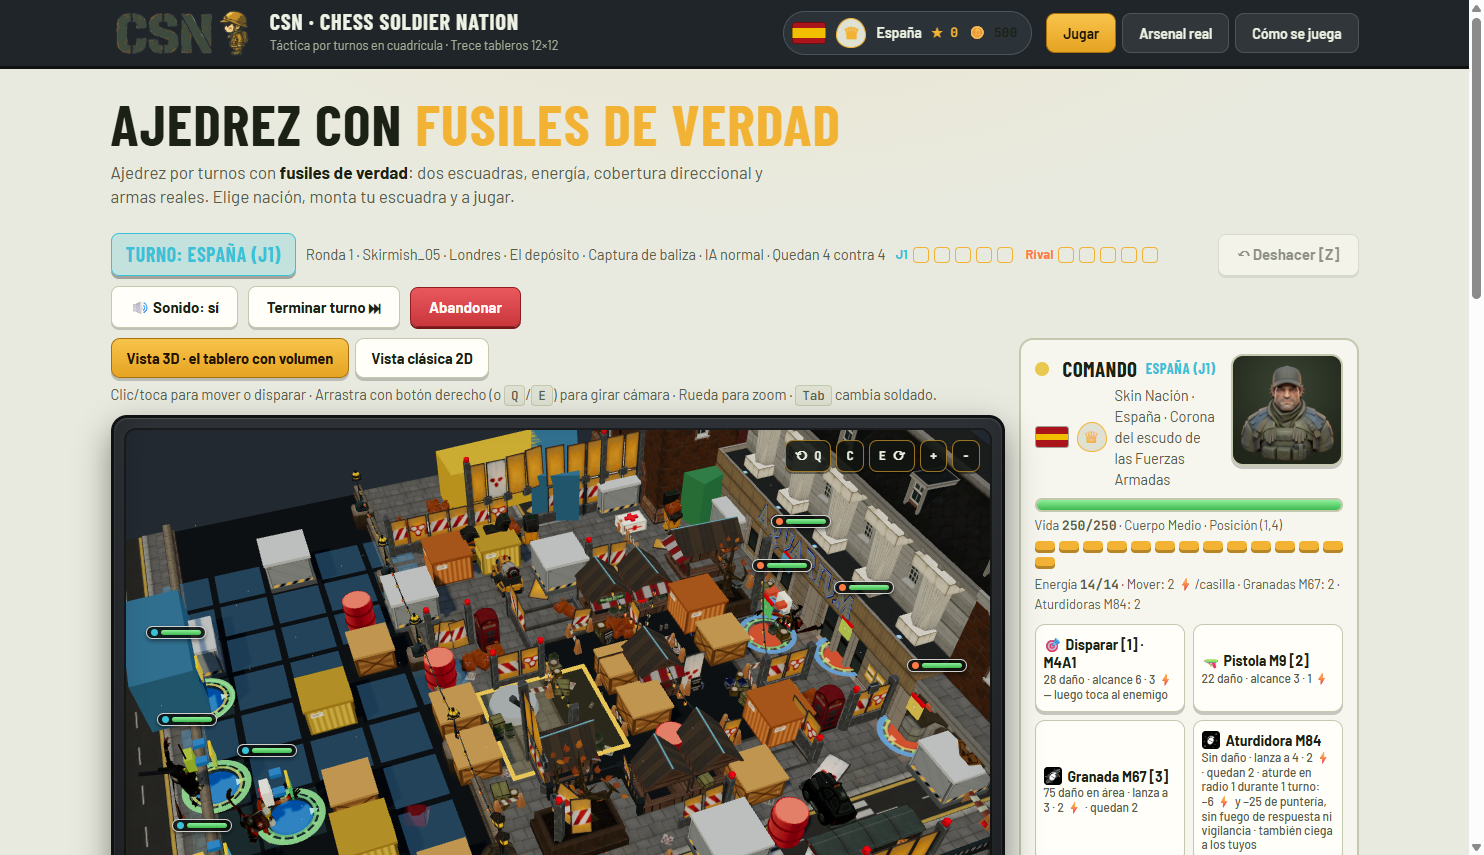
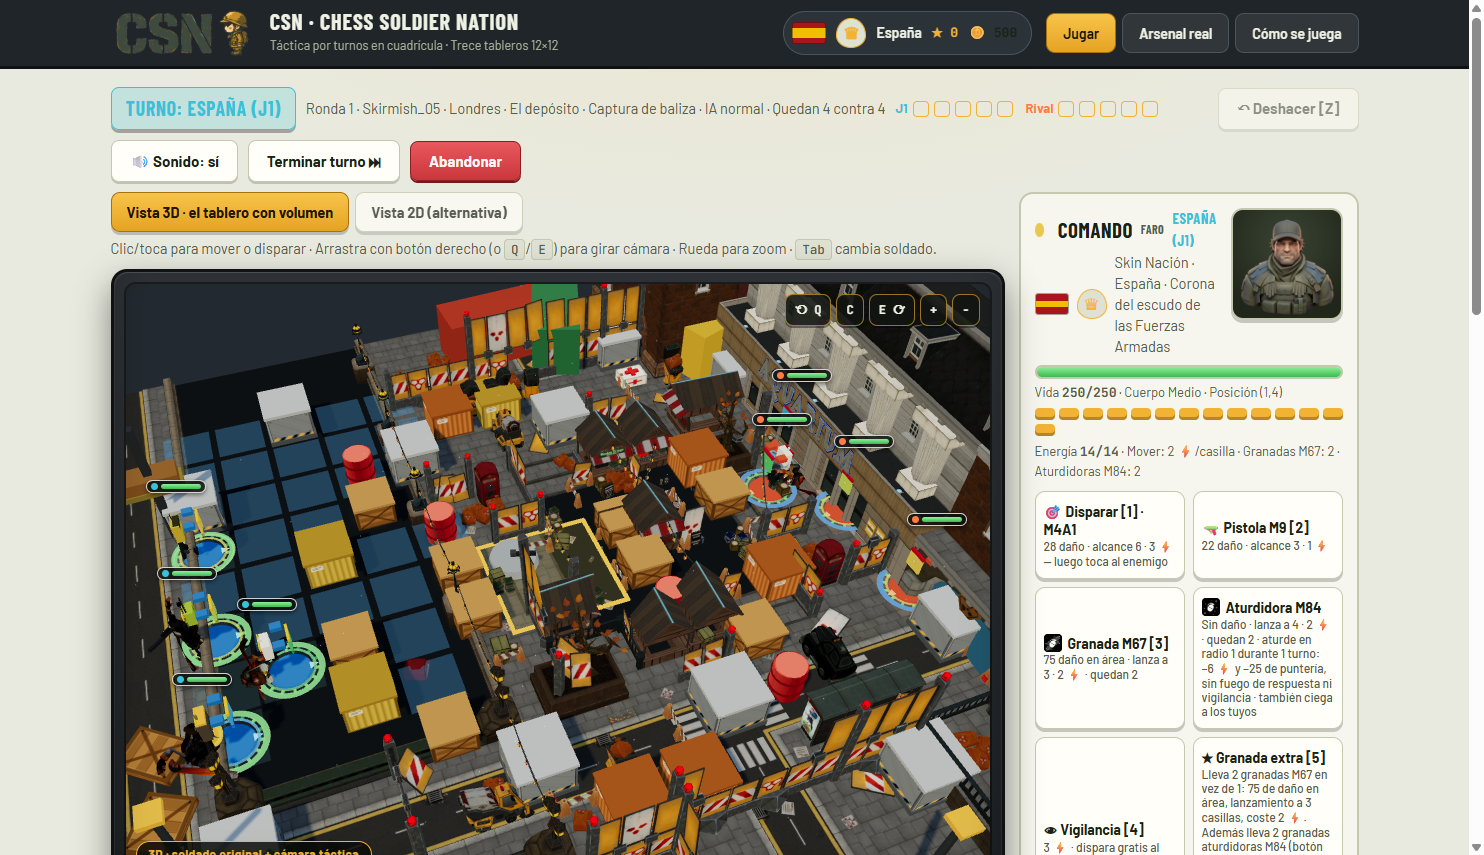
Informe de cierre del objetivo y galeria 3D refrescada
- docs/Informe_cierre_objetivo.md: que se ha hecho por fase, numeros del
  repositorio, que queda (decisiones y arte propio) y como seguir.
- Capturas 3D actualizadas con los props nuevos (S03 79.040 tris,
  deposito 65.069, astillero 73.551, almacen 33.290).
- Retirado un splash sin uso (portada_original.png).
Verificacion: TODO OK.

diff --git a/docs/Informe_cierre_objetivo.md b/docs/Informe_cierre_objetivo.md
@@ -1,0 +1,89 @@
+# Informe de cierre del objetivo (rondas 1–43)
+
+Objetivo: ejecutar el `Plan_director_original_base.md` hasta dejar CSN como
+**base reconocible del original**, fase a fase y con verificación en cada una.
+
+Resultado: **F1 y F5 cerradas; F2, F3, F4 y F6 con todo lo planificado hecho y
+ampliado**. El juego sigue jugable en `main` en cada commit.
+
+## Qué se ha hecho
+
+### F1 · Catálogo del original
+- **42 iconos** de habilidad extraídos de `GameData.assetbundle` a `assets/ui/ability/`.
+- `docs/Catalogo_habilidades_original.md` con **las 44** habilidades, su icono,
+  su equivalente en CSN y su estado (19 implementadas o equivalentes).
+
+### F2 · Mapas
+- **8 Skirmish con geometría real del IPA** + 3 mapas de código, todos con
+  props por tema, cielo propio y ambiente.
+- **6 misiones de campaña** (la 6.ª, El convoy, escolta 5v5 con dron) en 3
+  capítulos con candados y progreso.
+- Props nuevos construidos en código: contenedores, grúas, carretilla
+  elevadora, caseta de obra, búnker, cabina de Londres, semáforo, noray,
+  máquina expendedora, banco, quiosco, puesto de fruta, montacargas…
+- **20 capturas 3D** en `docs/capturas/` y tabla en `docs/Capturas_3D.md`.
+
+### F3 · Interfaz
+- Portada con el **arte y el logo del RAD Soldiers original** (splash
+  decodificado de CgBI) y el 3D en vivo debajo.
+- Menú del original (Quick, Online, Challenges, Expansions), **Cuartel** y
+  **Armería** con monedas en el chip.
+- Campaña por capítulos, **Armería en dos pestañas** (37 armas / 42 habilidades).
+- **Cuartel**: 35 personajes agrupados por clase, bios, selector de personaje
+  por rol y las cuatro skins.
+- **HUD** con retratos, vida/energía, daño previsto, arco de vida, tooltip de
+  ficha real del arma, y **resultados** con tabla (vivos/daño/derribos) y la
+  escuadra.
+- Estética compacta: tarjetas a 2 líneas, mapas y reglas plegables,
+  configuración en una línea.
+
+### F4 · Personajes y skins
+- **7 modelos por clase del IPA** (malla + rig + textura + escala): Soldier_Light,
+  Soldier_Heavy, Agent_Light, Medic, Engineer, Agent_Heavy, Commander.
+- **35 personajes**: 17 del original + 18 propios, con bio y voz.
+- **Cuatro skins** por escuadra: Estándar (con tinte propio por personaje),
+  Camuflaje (patrón procedural), Clase (color del rol) y Nación (bandera,
+  cinta de casco, banda de mochila y emblema).
+- Diferenciación de bando: hombreras y tinte cálido en el enemigo.
+
+### F5 · Presentación
+- **195 clips del original** (208 archivos de audio, 11,8 MB): armas por
+  categoría y arma, **voces por personaje** (17 sets) y por rol, ambiente por
+  mapa (13 temas), **música de partida** (7 temas) y sonidos de habilidad.
+- **Cámara que acompaña al disparo** (2,6 s, amortiguada) y sacudida de
+  impactos.
+
+### F6 · Calidad
+- `bench/VERIFICAR.ps1`: sintaxis, tableros 13/13, `rules.test` 6/6,
+  `data.test` 6/6 y humo 3D con captura. **Todo OK** en la última pasada.
+- Equilibrio medido con n≥30 (`docs/Equilibrio_medido.md`): Dominación
+  Almacén 56 % B (n=140), Eliminación S03 56 % A (n=70), Baliza S03 59 % A
+  (n=80), Escolta 73 % A con dron 22/30.
+- `docs/ARQUITECTURA.md` con líneas reales de los bloques y funciones clave.
+
+## Números del repositorio
+
+- **168 commits** en `main`.
+- `assets/soldier`: 21 archivos (7 × malla/rig/textura).
+- `assets/audio`: 208 archivos (11,8 MB).
+- `assets/ui/ability`: 42 iconos.
+- `docs`: 21 documentos + 20 capturas 3D.
+
+## Qué queda (decisiones y trabajo ajeno al código)
+
+1. **Iniciativa alterna** o subir dificultad para corregir el 56 % B de
+   Dominación (decisión de diseño del jugador).
+2. **Campaña con geometría propia del original**: la geometría de campaña
+   venía del servidor y no está en el IPA; habría que reconstruirla o diseñarla.
+3. **Arte propio**: sustituir los assets del IPA (modelos, audio, logo) por
+   arte propio antes de publicar; son de Splash Damage / WarChest.
+4. **`.git` de 185 MB**: si se quiere aligerar, reescribir historia con
+   `git filter-repo` (irreversible; requiere permiso).
+
+## Cómo seguir (para la siguiente IA)
+
+1. Leer `docs/ARQUITECTURA.md` (estructura y reglas de edición).
+2. Leer `docs/Plan_director_original_base.md` (fases y checklist con pruebas).
+3. Ejecutar `powershell -File bench/VERIFICAR.ps1` antes y después de tocar nada.
+4. Medir el balance con `bench/harness.js` (n≥30) y capturar con
+   `_capture_all.mjs`.

diff --git a/docs/Capturas_3D.md b/docs/Capturas_3D.md
@@ -11,10 +11,10 @@ director. Los triangulos y llamadas salen de `window.__csn3d`.
 
 | Mapa | id | Triangulos | Llamadas | Captura |
 |---|---|---|---|---|
-| Skirmish_03 - Londres | `skirmish03` | 78868 | 539 | [png](capturas/REAL_skirmish_3d.png) |
-| Skirmish_05 - El deposito | `depot` | 64769 | 530 | [png](capturas/REAL_skirmish05_3d.png) |
+| Skirmish_03 - Londres | `skirmish03` | 79040 | 558 | [png](capturas/REAL_skirmish_3d.png) |
+| Skirmish_05 - El deposito | `depot` | 65069 | 555 | [png](capturas/REAL_skirmish05_3d.png) |
 | Skirmish_08 - La terminal | `terminal` | 80871 | 504 | [png](capturas/REAL_skirmish08_3d.png) |
-| Skirmish_11 - El astillero | `astillero` | 73311 | 554 | [png](capturas/REAL_skirmish11_3d.png) |
+| Skirmish_11 - El astillero | `astillero` | 73551 | 574 | [png](capturas/REAL_skirmish11_3d.png) |
 | Skirmish_06 - Los andenes | `platform` | 70239 | 556 | [png](capturas/REAL_skirmish06_3d.png) |
 | Skirmish_09 - La rotonda | `rotonda` | 72139 | 546 | [png](capturas/REAL_skirmish09_3d.png) |
 | Skirmish_04 - El puente | `skirmish04` | 78088 | 544 | [png](capturas/R4_sk04_3d.png) |
